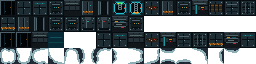
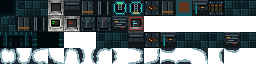
Tiles and sprites update
Refactor code structure for improved readability and maintainability

diff --git a/core/src/main/java/com/wafitz/pixelspacebase/actors/mobs/Drone.java b/core/src/main/java/com/wafitz/pixelspacebase/actors/mobs/Drone.java
@@ -43,6 +43,8 @@ public class Drone extends Mob {
 
         flying = true;
         state = WANDERING;
+        hostile = false;
+        ally = true;
         properties.add(Property.MACHINE);
     }
 
@@ -117,10 +119,19 @@ public class Drone extends Mob {
             return null;
         }
 
-            //if something is holding the pot, target that
+            //if something is holding the controller, follow and defend them.
         else if (Actor.findById(potHolder) != null) {
             Actor holder = Actor.findById(potHolder);
-            return holder instanceof Mob && ((Mob) holder).hostile ? (Char) holder : null;
+            potPos = ((Char) holder).pos;
+            if (holder instanceof Mob && ((Mob) holder).hostile) {
+                return (Char) holder;
+            }
+
+            Char hostileTarget = findHostileTarget(potPos);
+            if (hostileTarget != null) {
+                return hostileTarget;
+            }
+            return null;
         }
 
             //if the pot is on the ground
@@ -132,14 +143,9 @@ public class Drone extends Mob {
                     && Dungeon.level.distance(enemy.pos, potPos) <= 3)
                 return enemy;
 
-            //find all mobs near the pot
-            HashSet<Char> enemies = new HashSet<>();
-            for (Mob mob : Dungeon.level.mobs)
-                if (!(mob instanceof Drone) && Dungeon.level.distance(mob.pos, potPos) <= 3 && mob.hostile)
-                    enemies.add(mob);
-
             //pick one, if there are none, clear nearby mines or idle.
-            if (enemies.size() > 0) return Random.element(enemies);
+            Char hostileTarget = findHostileTarget(potPos);
+            if (hostileTarget != null) return hostileTarget;
             int mineTarget = findMineTarget(potPos);
             if (mineTarget != -1) {
                 target = mineTarget;
@@ -161,10 +167,21 @@ public class Drone extends Mob {
         if (Dungeon.level.mines.get(target) != null) {
             return super.getCloser(target);
         }
-        if (enemy != null && Actor.findById(potHolder) == enemy) {
+
+        Actor holder = Actor.findById(potHolder);
+        if (holder instanceof Char) {
+            potPos = ((Char) holder).pos;
+        }
+
+        if (enemy != null && holder == enemy) {
             target = enemy.pos;
-        } else if (potPos != -1 && (state == WANDERING || Dungeon.level.distance(target, potPos) > 3))
-            this.target = target = potPos;
+        } else if (potPos != -1 && state == WANDERING) {
+            if (Dungeon.level.distance(pos, potPos) > 2) {
+                this.target = target = potPos;
+            } else if (target == -1 || target == pos || Dungeon.level.distance(target, potPos) > 4) {
+                this.target = target = patrolDestination(potPos);
+            }
+        }
         return super.getCloser(target);
     }
 
@@ -187,6 +204,28 @@ public class Drone extends Mob {
             }
         }
         return best;
+    }
+
+    private Char findHostileTarget(int origin) {
+        HashSet<Char> enemies = new HashSet<>();
+        for (Mob mob : Dungeon.level.mobs) {
+            if (!(mob instanceof Drone) && mob.hostile && mob.invisible <= 0
+                    && (Dungeon.level.distance(mob.pos, pos) <= viewDistance
+                    || origin != -1 && Dungeon.level.distance(mob.pos, origin) <= viewDistance)) {
+                enemies.add(mob);
+            }
+        }
+        return enemies.size() > 0 ? Random.element(enemies) : null;
+    }
+
+    private int patrolDestination(int origin) {
+        HashSet<Integer> candidates = new HashSet<>();
+        for (int i = 0; i < Level.passable.length; i++) {
+            if (Level.passable[i] && Actor.findChar(i) == null && Dungeon.level.distance(i, origin) <= 3) {
+                candidates.add(i);
+            }
+        }
+        return candidates.size() > 0 ? Random.element(candidates) : origin;
     }
 
     private static final HashSet<Class<?>> IMMUNITIES = new HashSet<>();

diff --git a/core/src/main/java/com/wafitz/pixelspacebase/items/blasters/EMP.java b/core/src/main/java/com/wafitz/pixelspacebase/items/blasters/EMP.java
@@ -290,13 +290,7 @@ public class EMP extends Blaster {
 
     @Override
     protected int initialCharges() {
-        return 1;
-    }
-
-    @Override
-    //consumes all available charges, needs at least one.
-    protected int chargesPerCast() {
-        return Math.max(1, curCharges);
+        return 3;
     }
 
     @Override

diff --git a/core/src/main/java/com/wafitz/pixelspacebase/items/quest/Embers.java b/core/src/main/java/com/wafitz/pixelspacebase/items/quest/Embers.java
@@ -44,6 +44,6 @@ public class Embers extends Item {
 
     @Override
     public ItemSprite.Glowing glowing() {
-        return new ItemSprite.Glowing(0x660000, 3f);
+        return new ItemSprite.Glowing(0x7a33aa, 3f);
     }
 }

diff --git a/PLAN.md b/PLAN.md
@@ -198,7 +198,7 @@ This plan is organized by the kind of work needed next. Use it as the active bac
 
 - [ ] Torch - permanent item with battery pickups
 - [ ] Spacesuit needed for spacewalk (captain, commander)
-- [ ] Shapeshifter doesn't use weapons, but gets stronger as levels increase, throws objects which will act as single use projectiles
+- [ ] Shapeshifter doesn't use blaster weapons, but gets stronger as levels increase, can shapeshift into items, which has same effect as camoflage and gives boosted suprise attack.
 - [ ] Shapeshifter health packs are debuffed, don't work as well, but standing in water give small recovery.
 - [x] DM3000 resistant to most elements and traps but no improvement in armor strength - increases slowly with level increase but weaker than other characters
 - [x] DM3000 has permanent light
@@ -208,10 +208,11 @@ This plan is organized by the kind of work needed next. Use it as the active bac
 - [ ] Tech and biogenetics reorganised to defensive (apply to player) vs offensive (used as weapon/action) - have generic storage icon that is opened up and then reveals what it is.
 - [ ] Add NPCs that need protection. End game player leaves on escape pod or goes back to stablise ship so NPCs can be rescued
 - [ ] A cat that will follow the adventurer. Sign warning "Do not pet the cat".
-- [ ] Renaming plan: Dungeon, King, Skeleton, DdarkLordGnoll, PrisonLevel, CavesLevel etc...
+- [ ] Renaming plan: Dungeon, King, Skeleton, DarkLordGnoll, PrisonLevel, CavesLevel etc...
 - [ ] Replace garden with one-square booth - healing tank sort of thing.
 - [ ] Security levels should start with the 'piercing sound' from the trap (it sounds like an alarm).
 - [ ] Mines with a positive effect should become stimulants (automatic apply).
 - [ ] Remove the '3d' effect/overlay from floor lights.
 - [ ] Bionetics with an offensive nature (i.e. fire) should become grenades.
 - [ ] Remove chains graphic, change name to 'the force' and make it seem like being pulled by the force.
+- [ ] Shapeshifter shouldn't battle himself, so if shapeshifter gets to to the first boss, he should meet Y who pits him to the test of a battle against 50 enemies in an arena.

diff --git a/docs/ENTITY_BEHAVIOR.md b/docs/ENTITY_BEHAVIOR.md
@@ -58,7 +58,7 @@ This catalogue summarizes the current player-facing behavior of NPCs, enemies, b
 | Yendor Shock Trooper | Heavy melee enemy with low-health combat-rig overclock. |
 | Facehugger (`Spinner`) | Former cave spinner. Uses web behavior as adhesive biofilament. Successful latches infect the hero like an alien egg; if the infection runs its course it spawns a tougher xenomorph. |
 | Plasma Anomaly (`Elemental`) | Former fire elemental. Reactor/containment leak enemy with special damage flavor. |
-| Plasma Spark (`Newborn Elemental`) | Quest-related discharge source for plasma embers, now framed as a fresh containment leak. |
+| Plasma Spark (`Newborn Elemental`) | Quest-related discharge source for a faulty core module ejected by the restart sequence. |
 | Jeda Knight (`Monk`) | Fast late-mid disciplined melee enemy. Text conversion is done; sprite remains future work. |
 | Jeda Master (`Senior`) | Rare Jeda Knight variant with stronger strikes and brief paralysis. Text conversion is done; sprite remains future work. |
 | Signal Witch (`Warlock`) | Caster enemy that weaponizes corrupted telemetry and neural feedback. |
@@ -140,7 +140,7 @@ This catalogue summarizes the current player-facing behavior of NPCs, enemies, b
 | --- | --- |
 | Screwdriver | Leonard quest tool for harvesting parts from exposed components. |
 | Core Stabilizer (`CeremonialCandle`) | Former ceremonial candle. Used with the restart marker to focus energy for a damaged core restart. |
-| Plasma Embers (`Embers`) | Quartermaster quest material harvested from newborn elemental discharge content. |
+| Faulty Core Module (`Embers`) | Quartermaster quest material recovered from the failed core restart sequence. |
 | Ore Cutter (`Pickaxe`) | Heavy industrial cutter quest item, also usable as a weapon. |
 | Containment Ash (`CorpseDust`) | Sealed hostile residue quest item with residual anomaly flavor. |
 | Bio-Charge Core / Rotberry Mine Charge | Organic/device quest ingredient tied to the Quartermaster and Fabricator systems. |

diff --git a/docs/TILE_MAP_REFERENCE.md b/docs/TILE_MAP_REFERENCE.md
@@ -2,6 +2,8 @@
 
 This reference maps the current terrain IDs to plain-text descriptions for graphics planning. It is based on `Terrain.java`, `DungeonTilemap.java`, and the current tile names/descriptions in `levels.properties`.
 
+For a visual grid with frame numbers and labels, see [TILE_SHEET_LAYOUT.md](TILE_SHEET_LAYOUT.md).
+
 ## Terrain Tiles
 
 | ID | Constant | Default visual frame | Generic visual brief | Gameplay flags / behavior |
@@ -15,7 +17,7 @@ This reference maps the current terrain IDs to plain-text descriptions for graph
 | 6 | `OPEN_DOOR` | 6 | Open door/airlock panel. | Passable. |
 | 7 | `ENTRANCE` | 8 | Previous-deck entrance, hatch, lift, ladder, or ramp. | Passable. |
 | 8 | `EXIT` | 7 | Next-deck exit, hatch, lift, ladder, or ramp. | Passable. |
-| 9 | `EMBERS` | 9 | Plasma residue, scorched floor, active residue, or hot reactor debris. | Passable. |
+| 9 | `EMBERS` | 9 | Core residue, scorched floor, active residue, or hot reactor debris. | Passable. |
 | 10 | `LOCKED_DOOR` | 10 | Locked security door or keyed airlock. | Solid + blocks line of sight. |
 | 11 | `PEDESTAL` | 11 | Plinth, console stand, display base, ritual marker center, or item mount. | Passable. |
 | 12 | `WALL_DECO` | 12 | Decorated wall variant: pipes, panels, ore vein, wiring, or damaged bulkhead. | Same as wall. |
@@ -70,7 +72,7 @@ _  INACTIVE_VENT spent floor lighting
 >  EXIT / next-deck route
 X  LOCKED_EXIT
 O  UNLOCKED_EXIT
-=  EMBERS / plasma residue
+=  EMBERS / core residue
 T  WELL / active terminal
 t  EMPTY_WELL / powered-off terminal
 F  CRAFTING / fabricator

diff --git a/docs/TILE_SHEET_LAYOUT.md b/docs/TILE_SHEET_LAYOUT.md
@@ -1,0 +1,23 @@
+# Tile Sheet Layout
+
+Use this when requesting or planning tile art changes:
+
+![Annotated tile sheet layout](tile-sheet-layout.png)
+
+The image is generated from the canonical Maintenance / Operations sheet, `core/src/main/assets/tiles0.png`, but the same frame layout applies to every terrain sheet:
+
+- `tiles0.png` - Maintenance / Operations
+- `tiles1.png` - Security Block
+- `tiles2.png` - Lower Engineering
+- `tiles3.png` - Habitation / Command Sector
+- `tiles4.png` - Deep Containment
+
+## Important Notes
+
+- Frame numbers are tile-sheet frame numbers, not always terrain IDs.
+- `ENTRANCE` and `EXIT` are visually swapped in the sheet mapping:
+  - Frame `7` is `EXIT`, the next-deck route.
+  - Frame `8` is `ENTRANCE`, the previous-deck route.
+- `SECRET_DOOR`, `HIDDEN_VENT`, `VENT`, and `INACTIVE_VENT` do not have unique base frames in `DungeonTilemap`; they reuse wall/floor frames plus discovery or overlay behavior.
+- `WATER` uses the separate `water*.png` animated texture in gameplay. Frame `63` is still listed because `DungeonTilemap` maps water there for stitching/reference behavior.
+- Frames `38-47` are alternate variants used by the tile renderer for visual variety.

diff --git a/docs/STORY_BEATS.md b/docs/STORY_BEATS.md
@@ -231,7 +231,7 @@ NPC: Quartermaster, formerly Old Gunsmith internally.
 
 Current variants:
 
-- Requests a lazer, plasma embers, or a bio-charge core recovered from a mature rotberry mine.
+- Requests a lazer, a faulty core module, or a bio-charge core recovered from a mature rotberry mine.
 - Rewards new blaster options.
 
 Story role:
